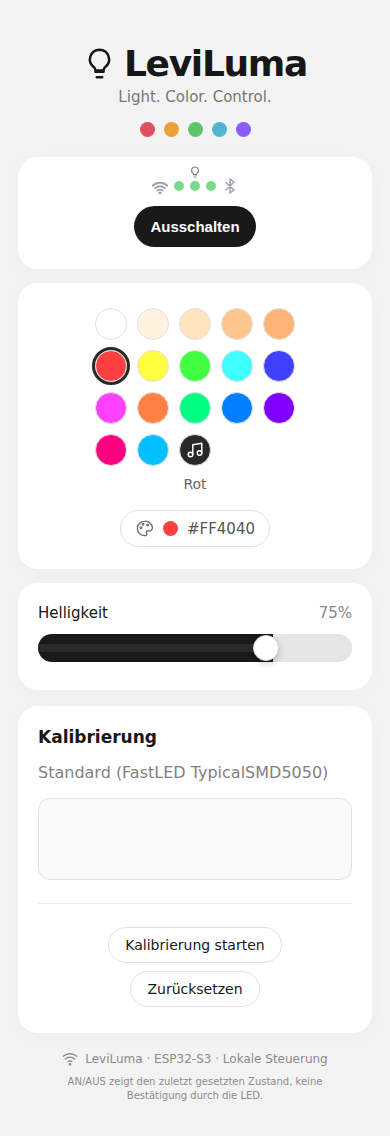
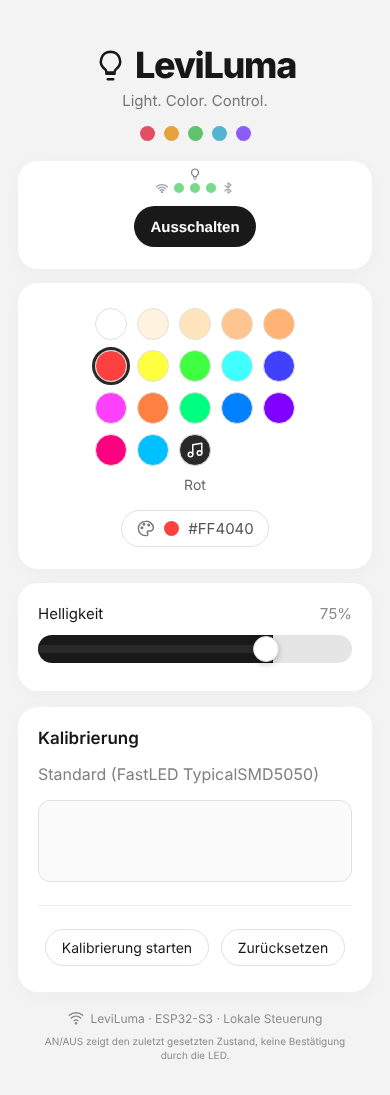
Web-UI: WLAN- und Bluetooth-Symbol auf 12 px, mittig zum Statuskreis
Claude-Session: https://claude.ai/code/session_01XLaKkGhMqU82qXdsv9t5qw

diff --git a/include/WebUi.h b/include/WebUi.h
@@ -11,7 +11,7 @@ svg{display:block}header p{margin:4px 0;color:#777;font-size:15px}.branddots{dis
 .tile{display:flex;flex-direction:column;justify-content:center;padding:20px 18px}
 .power-tile{display:flex;flex-direction:column;align-items:center;padding:20px 18px;gap:12px}
 .dots{display:flex;align-items:center;gap:6px}
-.dl{font-size:11px;font-weight:600;color:#888;line-height:1}.dots .wifi,.dots .bt{color:#9AA3AE;display:block}
+.dl{font-size:11px;font-weight:600;color:#888;line-height:1}.dots .wifi,.dots .bt{color:#9AA3AE;display:block;width:12px;height:12px}.dots .wifi{transform:translateY(-1px)}
 .dot{display:inline-block;width:10px;height:10px;border-radius:50%;background:#e5484d}.dot.ok{background:#79da89}.dot.unk{background:#fff;box-shadow:inset 0 0 0 1px #c9c9c9}.pcol{position:relative;display:inline-flex;align-items:center;color:#888}.pcol .bulb{position:absolute;left:50%;bottom:calc(100% + 3px);transform:translateX(-50%)}
 .statebar{display:flex;justify-content:center;margin-top:auto}
 .statebar .state{font-size:11px;font-weight:600;color:#888}
